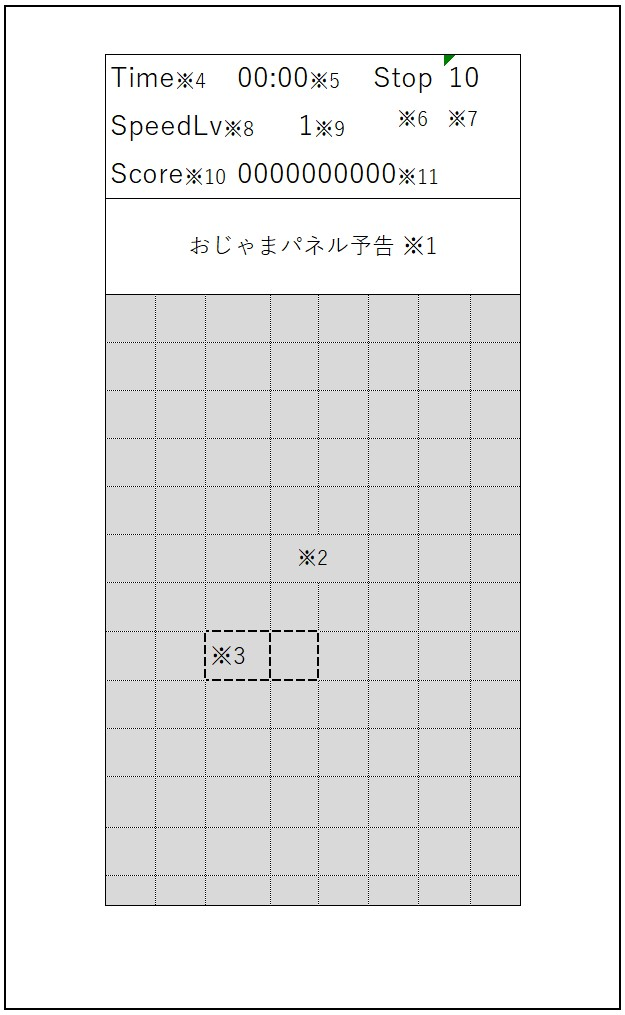
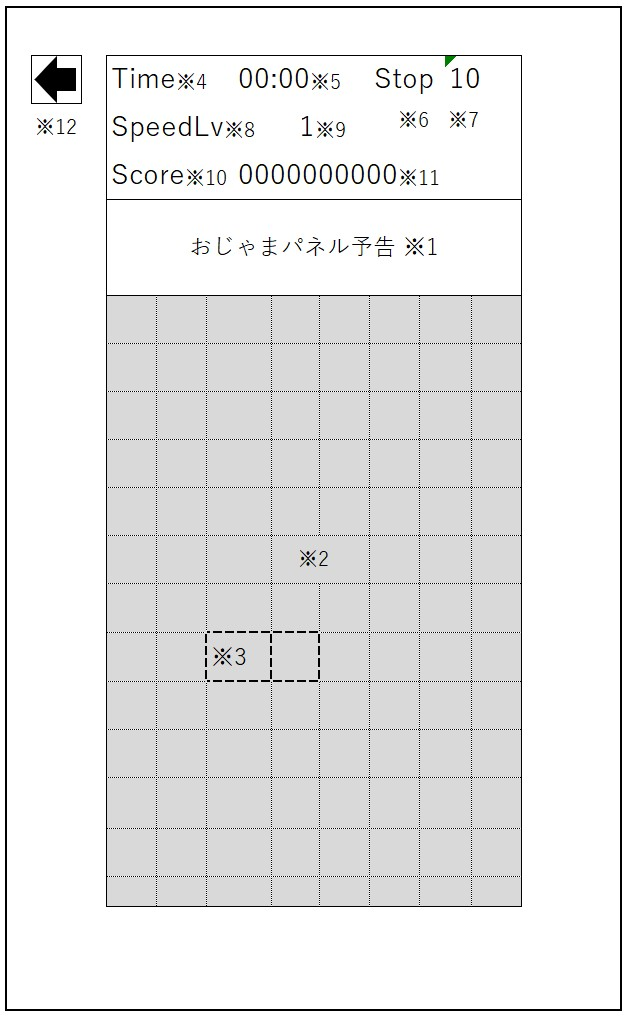
画像設計を修正

diff --git a/doc/画面設計.md b/doc/画面設計.md
@@ -10,15 +10,58 @@
 
 #### 1.2.1. タイトル
 
+- 概要
+  - 画像差し込む
+    - 型
+  - Image
+
 #### 1.2.2. スタート
+
+- 概要
+  - ゲーム画面へ遷移するボタン
+- 型
+  - Button
 
 #### 1.2.3. ゲームスピード
 
+- 概要
+  - ラベル
+- 型
+  - Text
+
 #### 1.2.4. メーター
+
+- 概要
+  - ゲームスピードを20段階で表示する
+  - スライドでゲームスピードを変更する
+  - デフォルト：10
+- 型
+  - Slider
 
 #### 1.2.5. おじゃまパネル
 
+- 概要
+  - ラベル
+- 型
+  - Text
+
 #### 1.2.6. おじゃま有無
+
+- 概要
+  - ゲーム中におじゃまパネルを降らせるかを設定する
+  - 有、無で切り替える
+  - デフォルト：無
+- 型
+  - Switch
+
+### 1.3. アクション設計
+
+|アクション名|アクションの詳細|
+|:-:|:-:|
+|初期表示|スタート画面を表示する|
+|`スタート`をタップ|ゲーム画面へ遷移する|
+|`メーター`をスライド|ゲームスピードを変更する|
+|`おじゃま有無`をタップ|おじゃまパネルを有無を切り替える|
 
 ## 2. ゲーム画面
 
@@ -30,22 +73,105 @@
 
 #### 2.2.1. おじゃまパネル予告
 
+- 概要
+  - 降ってくるおじゃまパネルの量を表示する
+- 型
+  - Image
+
 #### 2.2.2. フィールド
+
+- 概要
+  - 13行×6列
+  - 1行目のパネルは操作不可
+  - おじゃまパネルは上から降る
+  - ダブルタップでポーズ
+  - 下から上へのスライドでパネルをせり上げる
+- 型
+  - Canvas?
 
 #### 2.2.3. カーソル
 
+- 概要
+  - 1行×2列
+  - タップで表示
+  - 左右のスライドでパネルを入れ替える
+- 型
+  - Canvas?
+
 #### 2.2.4. タイム
+
+- 概要
+  - ラベル
+- 型
+  - Text
 
 #### 2.2.5. タイム値
 
+- 概要
+  - 経過時間
+  - 00:00で表示
+  - 上限 99:99
+- 型
+  - Text
+
 #### 2.2.6. ストップ
+
+- 概要
+  - ラベル
+- 型
+  - Text
 
 #### 2.2.7. 停止時間
 
+- 概要
+  - パネルをせり上げを止める時間を表示する
+  - 2連鎖以上もしくは4個以上の同時消しを行った場合に停止時間が付与される
+  - 最大15秒?
+- 型
+  - Text
+
 #### 2.2.8. スピードレベル
+
+- 概要
+  - ラベル
+- 型
+  - Text
 
 #### 2.2.9. スピードレベル値
 
+- 概要
+  - 現在のスピードレベルを表示する
+- 型
+  - Text
+
 #### 2.2.10. スコア
 
+- 概要
+  - ラベル
+- 型
+  - Text
+
 #### 2.2.11. スコア値
+
+- 概要
+  - 現在のゲームスコアを表示する
+- 型
+  - Text
+
+#### 2.2.12. 戻る
+
+- 概要
+  - スタート画面に戻る
+- 型
+  - Button
+
+### 2.3. アクション設計
+
+|アクション名|アクションの詳細|
+|:-:|:-:|
+|初期表示|ゲーム画面を表示する<br>6行×6列にパネルを生成する<br>ゲームを開始する|
+|画面をダブルタップ|ゲームをポーズする<br>ポーズ中はポーズ解除する|
+|フィールドをタップ|タップ中カーソルを表示する|
+|(タップ状態で)<br>フィールドを左右にスライド|パネルを左右に入れ替える|
+|(タップ状態で)<br>フィールドを上にスライド|パネルをせり上げるスピードを上げる|
+|`戻る`をタップ|スタート画面に遷移する|
